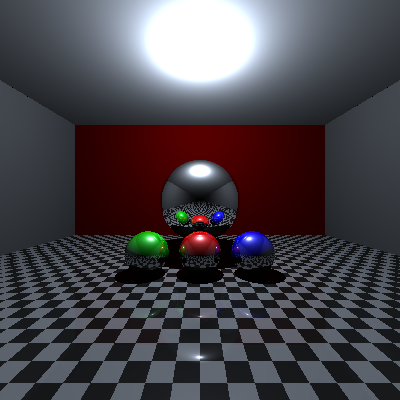
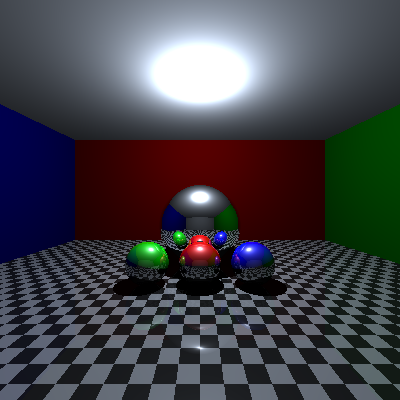
Added camera class.

diff --git a/rayTracingTest/src/main.cpp b/rayTracingTest/src/main.cpp
@@ -22,27 +22,27 @@ int main() {
 	unsigned int height{ 400 };
 	double ratio{ static_cast<double>(width) / height };
 	std::vector<std::unique_ptr<Object>> objects;
-	objects.push_back(std::make_unique<Sphere>(2, Vector3D{ 0, 0, 4 }, std::make_unique<Material>(Vector3D{ 0.1, 0.0, 0.0 }, Vector3D{ 0.7, 0.0, 0.0 }, Vector3D{ 0.1, 0.1, 0.1 }, 100.0, 0.5)));
-	objects.push_back(std::make_unique<Sphere>(2, Vector3D{ 5, 0, 4 }, std::make_unique<Material>(Vector3D{ 0.0, 0.0, 0.1 }, Vector3D{ 0.0, 0.0, 0.7 }, Vector3D{ 0.1, 0.1, 0.1 }, 100.0, 0.5)));
-	objects.push_back(std::make_unique<Sphere>(2, Vector3D{ -5, 0, 4 }, std::make_unique<Material>(Vector3D{ 0.0, 0.1, 0.0 }, Vector3D{ 0.0, 0.6, 0.0 }, Vector3D{ 0.1, 0.1, 0.1 }, 100.0, 0.5)));
+	objects.push_back(std::make_unique<Sphere>(2, Vector3D{ 0, 2, 4 }, std::make_unique<Material>(Vector3D{ 0.1, 0.0, 0.0 }, Vector3D{ 0.7, 0.0, 0.0 }, Vector3D{ 0.1, 0.1, 0.1 }, 100.0, 0.5)));
+	objects.push_back(std::make_unique<Sphere>(2, Vector3D{ 5, 2, 4 }, std::make_unique<Material>(Vector3D{ 0.0, 0.0, 0.1 }, Vector3D{ 0.0, 0.0, 0.7 }, Vector3D{ 0.1, 0.1, 0.1 }, 100.0, 0.5)));
+	objects.push_back(std::make_unique<Sphere>(2, Vector3D{ -5, 2, 4 }, std::make_unique<Material>(Vector3D{ 0.0, 0.1, 0.0 }, Vector3D{ 0.0, 0.6, 0.0 }, Vector3D{ 0.1, 0.1, 0.1 }, 100.0, 0.5)));
 	objects.push_back(std::make_unique<Sphere>(5, Vector3D{ 0, 5, 10 }, std::make_unique<Material>(Vector3D{ 0.0, 0.0, 0.0 }, Vector3D{ 0.0, 0.0, 0.0 }, Vector3D{ 0.0, 0.0, 0.0 }, 100.0, 1)));
-	objects.push_back(std::make_unique<Plane>(Vector3D{ 0, 5, 25 }, Vector3D{ 0, 0, -1 }, std::make_unique<Material>(Vector3D{ 0.1, 0.0, 0.0 }, Vector3D{ 0.3, 0.0, 0.0 }, Vector3D{ 0.0, 0.0, 0.0 }, 50, 0)));  // back wall
-	objects.push_back(std::make_unique<Plane>(Vector3D{ -25, 0, 0 }, Vector3D{ 1, 0, 0 }, std::make_unique<Material>(Vector3D{ 0.1, 0.1, 0.1 }, Vector3D{ 0.3, 0.3, 0.3 }, Vector3D{ 0.0, 0.0, 0.0 }, 50, 0)));  // left wall
-	objects.push_back(std::make_unique<Plane>(Vector3D{ 25, 0, 0}, Vector3D{ -1, 0, 0 }, std::make_unique<Material>(Vector3D{ 0.1, 0.1, 0.1 }, Vector3D{ 0.3, 0.3, 0.3 }, Vector3D{ 0.0, 0.0, 0.0 }, 50, 0)));  // right wall
-	objects.push_back(std::make_unique<Plane>(Vector3D{ 0, -2, 0 }, Vector3D{ 0, 1, 0 }, std::make_unique<Checkerboard>(Vector3D{ 0.4, 0.4, 0.4 }, Vector3D{ 0, 0, 0 }, Vector3D{ 0.1, 0.1, 0.1 }, 0, .10, 3)));  // floor outside
+	objects.push_back(std::make_unique<Plane>(Vector3D{ 0, 0, 25 }, Vector3D{ 0, 0, -1 }, std::make_unique<Material>(Vector3D{ 0.1, 0.0, 0.0 }, Vector3D{ 0.3, 0.0, 0.0 }, Vector3D{ 0.0, 0.0, 0.0 }, 50, 0)));  // front wall
+	objects.push_back(std::make_unique<Plane>(Vector3D{ -25, 0, 0 }, Vector3D{ 1, 0, 0 }, std::make_unique<Material>(Vector3D{ 0.0, 0.0, 0.1 }, Vector3D{ 0.0, 0.0, 0.3 }, Vector3D{ 0.0, 0.0, 0.0 }, 50, 0)));  // left wall
+	objects.push_back(std::make_unique<Plane>(Vector3D{ 25, 0, 0}, Vector3D{ -1, 0, 0 }, std::make_unique<Material>(Vector3D{ 0.0, 0.1, 0.0 }, Vector3D{ 0.0, 0.3, 0.0 }, Vector3D{ 0.0, 0.0, 0.0 }, 50, 0)));  // right wall
+	objects.push_back(std::make_unique<Plane>(Vector3D{ 0, 0, -25}, Vector3D{ 0, 0, 1 }, std::make_unique<Material>(Vector3D{ 0.1, 0.1, 0.1 }, Vector3D{ 0.3, 0.3, 0.3 }, Vector3D{ 0.0, 0.0, 0.0 }, 50, 0)));  // back wall
+	objects.push_back(std::make_unique<Plane>(Vector3D{ 0, 0, 0 }, Vector3D{ 0, 1, 0 }, std::make_unique<Checkerboard>(Vector3D{ 0.4, 0.4, 0.4 }, Vector3D{ 0, 0, 0 }, Vector3D{ 0.1, 0.1, 0.1 }, 0, .10, 3)));  // floor
 	//objects.push_back(std::make_unique<Plane>(Vector3D{ 0, 101, 0 }, std::make_unique<Material>(Vector3D{ 0.85, 0.91, 1 }, Vector3D{ 0, 0, 0 }, Vector3D{ 0, 0, 0 }, 0, 0)));  // sky outside
-	objects.push_back(std::make_unique<Plane>(Vector3D{ 0, 20, 0 }, Vector3D{ 0, -1, 0 }, std::make_unique<Material>(Vector3D{ 0.2, 0.2, .2 }, Vector3D{ .5, .5, .5 }, Vector3D{ 0, 0, 0 }, 50, 0)));  // ceiling inside
+	objects.push_back(std::make_unique<Plane>(Vector3D{ 0, 20, 0 }, Vector3D{ 0, -1, 0 }, std::make_unique<Material>(Vector3D{ 0.2, 0.2, .2 }, Vector3D{ .3, .3, .3 }, Vector3D{ 0, 0, 0 }, 50, 0)));  // ceiling inside
 	std::vector<std::unique_ptr<Light>> lights;
 	
 	//lights.push_back(std::make_unique<Light>(Vector3D{ 100.0, 100.0, -100.0 }, Vector3D{ .85, .91, 1.0 }, Vector3D{ .85, .91, 1.0 }, Vector3D{ .85, .91, 1.0 }));  // sun
 	lights.push_back(std::make_unique<PointLight>(Vector3D{ 0.0, 19, 5.0 }, Vector3D{ .85, .91, 1.0 }, Vector3D{ .85, .91, 1.0 }, Vector3D{ .85, .91, 1.0 }, .1, 2.0));  // ceiling light
-
-	Vector3D cameraPosition{ 0, 5, -15 };
-	Vector3D cameraAngle{ 0, 0, 0 };  // in radians
+	//objects.push_back(std::make_unique<Plane>(Vector3D{ 0, 19.1, 5 }, Vector3D{ 0, -1, 0 }, std::make_unique<Material>(Vector3D{ 0.0, 0.0, 0.0 }, Vector3D{ 0.0, 0.0, 0.0 }, Vector3D{ 0, 0, 0 }, 0, 0)));  // light blocker (prevents light from hitting ceiling) has to be a box, not a plane
 
 
 	Renderer renderer{};
-	png::image<png::rgb_pixel_16>& image = renderer.render(maxReflects, width, height, objects, lights, cameraPosition, cameraAngle);
+	Camera camera{ Vector3D{ 0, 8, -15 }, Vector3D{ 0, 0, 0 }, ratio};
+	png::image<png::rgb_pixel_16>& image = renderer.render(maxReflects, width, height, objects, lights, camera);
 
 	image.write("output.png");
 	return 0;

diff --git a/rayTracingTest/src/Renderer.cpp b/rayTracingTest/src/Renderer.cpp
@@ -4,7 +4,7 @@ Renderer::Renderer() : maxDist{ DBL_MAX } {
 
 }
 
-png::image<png::rgb_pixel_16>& Renderer::render(unsigned int maxReflects, unsigned int width, unsigned int height, std::vector<std::unique_ptr<Object>>& objects, std::vector<std::unique_ptr<Light>>& lights, Vector3D cameraPosition, Vector3D cameraAngle) {
+png::image<png::rgb_pixel_16>& Renderer::render(unsigned int maxReflects, unsigned int width, unsigned int height, std::vector<std::unique_ptr<Object>>& objects, std::vector<std::unique_ptr<Light>>& lights, Camera& cam) {
 	double dist = maxDist;
 	double ratio{ static_cast<double>(width) / height };
 	Vector4D screen{ -1, 1 / ratio, 1, -1 / ratio};
@@ -15,10 +15,10 @@ png::image<png::rgb_pixel_16>& Renderer::render(unsigned int maxReflects, unsign
 		double y{ (screen.w) + ((screen.y - screen.w) / image.get_height() * (static_cast<double>(py) + 0.5)) };  // spots on screen for ray to shoot through
 		for (png::uint_32 px = 0; px < image.get_width(); px++) {
 			double x{ (screen.x) + ((screen.z - screen.x) / image.get_width() * (static_cast<double>(px) + 0.5)) };  // spots on screen for ray to shoot through
-			Vector3D pixel{ x + cameraPosition.x, y + cameraPosition.y, cameraPosition.z + 1 };
+			Vector3D pixel{ x + cam.position.x, y + cam.position.y, cam.position.z + 1 };
 			Vector3D finalColor{ 0, 0, 0 };
 			for (size_t l = 0; l < lights.size(); l++) {
-				Ray ray{ cameraPosition, Vector3D::normalize(pixel - cameraPosition) };
+				Ray ray{ cam.position, Vector3D::normalize(pixel - cam.position) };
 
 				double reflection = 1;
 				for (unsigned int i = 0; i < maxReflects; i++) {
@@ -40,6 +40,8 @@ png::image<png::rgb_pixel_16>& Renderer::render(unsigned int maxReflects, unsign
 
 						if (Vector3D::magnitude(lights[l]->position - shiftedPoint) < distanceToBetweenObject) {  // if no object is in the way
 							Vector3D rgb{ 0.0, 0.0, 0.0 };
+							// inherent color without need of light
+							rgb = rgb + (*obj)->getMaterial()->getInherent();
 
 							// ambient
 							rgb = rgb + ((*obj)->getMaterial()->getAmbient(intersection).multiply(lights[l]->ambient * lights[l]->getIntensityAt(intersection)));
@@ -47,20 +49,24 @@ png::image<png::rgb_pixel_16>& Renderer::render(unsigned int maxReflects, unsign
 							// diffuse
 							rgb = rgb + ((*obj)->getMaterial()->getDiffuse(intersection).multiply(lights[l]->diffuse * lights[l]->getIntensityAt(intersection))) * (lightVector * normalVector);
 
-							//specular
-							Vector3D cameraVector{ Vector3D::normalize(cameraPosition - intersection) };
+							// specular
+							Vector3D cameraVector{ Vector3D::normalize(cam.position - intersection) };
 							Vector3D H{ Vector3D::normalize(lightVector + cameraVector) };
 							rgb = rgb + (*obj)->getMaterial()->getSpecular(intersection).multiply(lights[l]->specular * lights[l]->getIntensityAt(intersection)) * pow((normalVector * H), (*obj)->getMaterial()->getShininess(intersection) / 4);
 
 
-							//reflection
+							// reflection
 							finalColor = finalColor + rgb * reflection;
 							reflection *= (*obj)->getMaterial()->getReflection(intersection);
 
 							ray = Ray{ shiftedPoint, Object::reflected(ray.direction, normalVector) };
 						} else {
 							Vector3D rgb{ 0.0, 0.0, 0.0 };
-							//reflection
+
+							// inherent color without need of light
+							rgb = rgb + (*obj)->getMaterial()->getInherent();
+							
+							// reflection
 							finalColor = finalColor + rgb * reflection;
 							reflection *= (*obj)->getMaterial()->getReflection(intersection);
 							if (reflection == 0) {

diff --git a/rayTracingTest/src/materials/Material.cpp b/rayTracingTest/src/materials/Material.cpp
@@ -1,7 +1,15 @@
 #include "Material.h"
 
-Material::Material(Vector3D amb, Vector3D dif, Vector3D spe, double shi, double ref) : ambient{ amb }, diffuse{ dif }, specular{ spe }, shininess{ shi }, reflection{ ref } {
+Material::Material(Vector3D amb, Vector3D dif, Vector3D spe, double shi, double ref) : ambient{ amb }, diffuse{ dif }, specular{ spe }, shininess{ shi }, reflection{ ref }, inherent{ 0, 0, 0 } {
 
+}
+
+Material::Material(Vector3D amb, Vector3D dif, Vector3D spe, double shi, double ref, Vector3D inh) : ambient{ amb }, diffuse{ dif }, specular{ spe }, shininess{ shi }, reflection{ ref }, inherent{ inh } {
+
+}
+
+Vector3D& Material::getInherent() {
+	return inherent;
 }
 
 Vector3D& Material::getAmbient() {

diff --git a/rayTracingTest/src/Renderer.h b/rayTracingTest/src/Renderer.h
@@ -6,12 +6,13 @@
 #include "vector/Vector3D.h"
 #include "objects/Object.h"
 #include "lights/Light.h"
+#include "Camera.h"
 
 class Renderer
 {
 public:
 	Renderer();
-	png::image<png::rgb_pixel_16>& render(unsigned int maxReflects, unsigned int width, unsigned int height, std::vector<std::unique_ptr<Object>>& objects, std::vector<std::unique_ptr<Light>>& lights, Vector3D cameraPosition, Vector3D cameraAngle);
+	png::image<png::rgb_pixel_16>& render(unsigned int maxReflects, unsigned int width, unsigned int height, std::vector<std::unique_ptr<Object>>& objects, std::vector<std::unique_ptr<Light>>& lights, Camera& cam);
 
 private:
 	const double maxDist;

diff --git a/rayTracingTest/src/materials/Material.h b/rayTracingTest/src/materials/Material.h
@@ -4,6 +4,8 @@
 class Material {
 public:
 	Material(Vector3D amb, Vector3D dif, Vector3D spe, double shi, double ref);
+	Material(Vector3D amb, Vector3D dif, Vector3D spe, double shi, double ref, Vector3D inh);
+	Vector3D& getInherent();
 	Vector3D& getAmbient();
 	Vector3D& getDiffuse();
 	Vector3D& getSpecular();
@@ -16,6 +18,6 @@ public:
 	virtual double getReflection(const Vector3D& point);
 
 protected:
-	Vector3D ambient, diffuse, specular;
+	Vector3D ambient, diffuse, specular, inherent;
 	double shininess, reflection;
 };

diff --git a/rayTracingTest/src/Camera.h b/rayTracingTest/src/Camera.h
@@ -1,0 +1,13 @@
+#pragma once
+#include "vector/Vector3D.h"
+#include "vector/Vector4D.h"
+
+class Camera {
+public:
+	Camera(Vector3D pos, Vector3D ori, double r);
+	Vector3D position, orientation;
+private:
+	double ratio;
+	Vector4D screen;
+};
+

diff --git a/rayTracingTest/src/Camera.cpp b/rayTracingTest/src/Camera.cpp
@@ -1,0 +1,5 @@
+#include "Camera.h"
+
+Camera::Camera(Vector3D pos, Vector3D ori, double r) : position{ pos }, orientation{ ori }, ratio{ r }, screen{ -1, 1 / r, 1, -1 / r } {
+
+}
